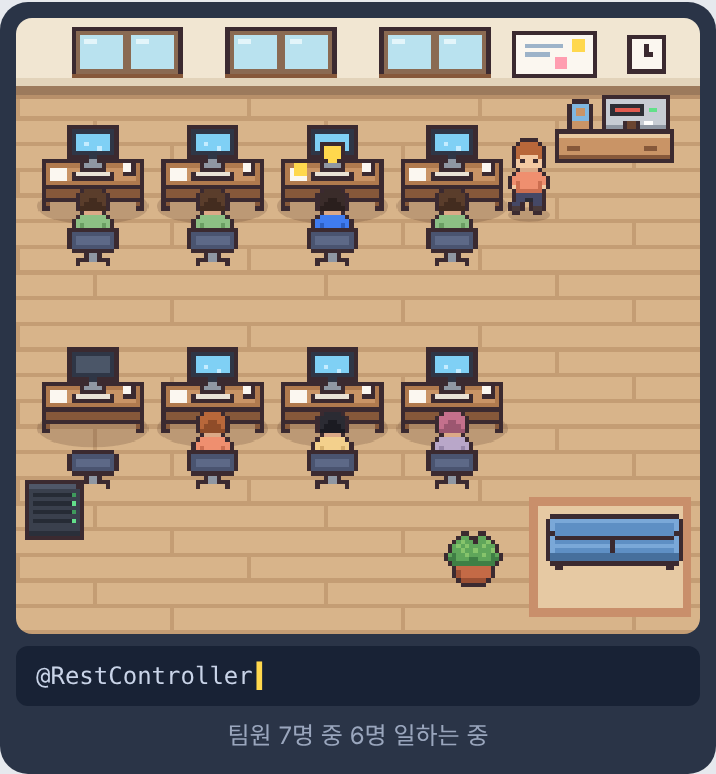
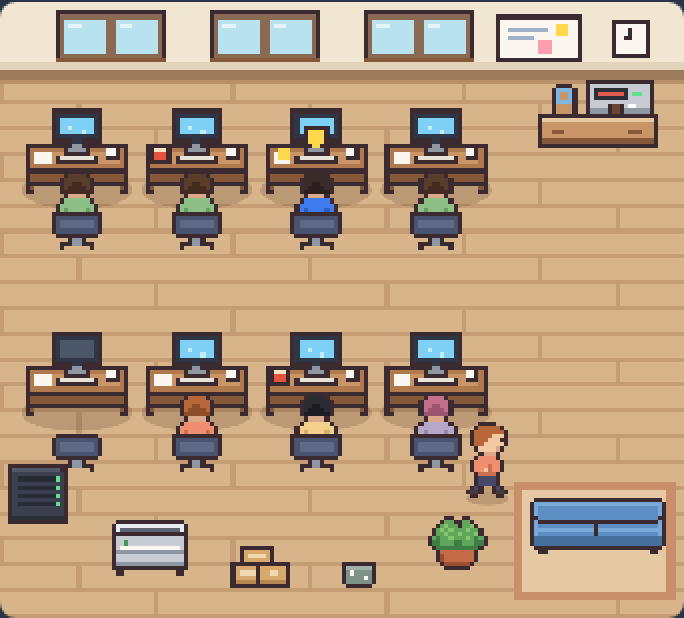
사무실 그림 다듬기: 걷는 방향, 눈 깜빡임, 소품
- 옆으로 걸을 땐 옆모습, 위로 갈 땐 뒷모습 (좌우 반전 포함)
- 서 있는 사람이 가끔 눈을 깜빡임
- 복사기(가끔 불빛), 택배 상자, 휴지통, 책상 위 컵라면과 김

diff --git a/apps/dev-idle/src/office/art.ts b/apps/dev-idle/src/office/art.ts
@@ -157,6 +157,9 @@ export function drawRoom(c: Ctx, night: boolean, alarm: boolean, t: number) {
   blit(c, COUNTER(), 126, 18);
   blit(c, RACK(alarm, Math.floor(t * 4) % 2 === 0), 2, 108);
   blit(c, PLANT(), 100, 120);
+  blit(c, COPIER(Math.floor(t * 2) % 6 === 0), 26, 121);
+  blit(c, BOXES(), 54, 127);
+  blit(c, BIN(), 80, 131);
 
   if (night) {
     c.fillStyle = 'rgba(22, 26, 52, 0.38)';
@@ -273,6 +276,52 @@ const PLANT = () =>
     { o: OUT, L: P.leaf, l: P.leafHi, d: P.leafDark, p: P.pot, P: P.potDark },
   );
 
+const COPIER = (busy: boolean) =>
+  sprite(
+    `copier-${busy}`,
+    [
+      '.oooooooooooooooo.',
+      'oAAAAAAAAAAAAAAAAo',
+      'oAkkkkkkkkkkkkkkAo',
+      'oooooooooooooooooo',
+      'ommmmmmmmmmmmmmmmo',
+      'ommgmmmmmmmmmmmmmo',
+      'omwwwwwwwwwwwwwwmo',
+      'oMMMMMMMMMMMMMMMMo',
+      'ommmmmmmmmmmmmmmmo',
+      'ommmmmmmmmmmmmmmmo',
+      'oMMMMMMMMMMMMMMMMo',
+      'oooooooooooooooooo',
+      '.oo............oo.',
+    ],
+    { o: OUT, A: '#e9ecf1', k: '#5b6475', m: P.metal, M: P.metalDark, g: busy ? P.ledOk : '#3f9a5c', w: P.white },
+  );
+
+const BOXES = () =>
+  sprite(
+    'boxes',
+    [
+      '..oooooooo....',
+      '..obbbbbbo....',
+      '..obttttbo....',
+      '..obbbbbbo....',
+      'oooooooooooooo',
+      'obbbbbobbbbbbo',
+      'obttttobbttbbo',
+      'obbbbbobbbbbbo',
+      'oBBBBBoBBBBBBo',
+      'oooooooooooooo',
+    ],
+    { o: OUT, b: '#d9a86c', B: '#b8864f', t: '#f0d9b0' },
+  );
+
+const BIN = () =>
+  sprite(
+    'bin',
+    ['oooooooo', 'oggggggo', 'oGwGGGGo', 'oGGGGwGo', 'oGGGGGGo', '.oooooo.'],
+    { o: OUT, g: '#9fb0a8', G: '#7f928a', w: P.white },
+  );
+
 /* 책상: 비스듬히 위에서 본 책상과 모니터. (x, y)는 책상 상판 왼쪽 위 */
 const DESK = () =>
   sprite(
@@ -337,7 +386,7 @@ const CHAIR = () =>
     { o: OUT, C: '#4a5470', c: '#5d6987', M: P.metalDark },
   );
 
-export function drawDesk(c: Ctx, x: number, y: number, working: boolean, night: boolean, frame: number, mine = false) {
+export function drawDesk(c: Ctx, x: number, y: number, working: boolean, night: boolean, frame: number, mine = false, ramen = false) {
   shadow(c, x + 12, y + 12, 13);
   blit(c, DESK(), x, y + 1);
   blit(c, MONITOR(working || mine, frame % 2 === 1), x + 6, y - 7);
@@ -348,6 +397,14 @@ export function drawDesk(c: Ctx, x: number, y: number, working: boolean, night: 
   rect(c, x + 19, y + 2, 2, 2, P.white);
   rect(c, x + 2, y + 3, 4, 3, P.white);
   if (mine) rect(c, x + 3, y + 2, 3, 3, P.postit);
+  if (ramen) {
+    // 컵라면과 김
+    rect(c, x + 1, y + 1, 5, 5, OUT);
+    rect(c, x + 2, y + 2, 3, 1, '#f3e3c3');
+    rect(c, x + 2, y + 3, 3, 2, '#e8533f');
+    if (frame % 3 === 0) rect(c, x + 3, y - 2, 1, 2, '#efefef');
+    if (frame % 3 === 1) rect(c, x + 2, y - 3, 1, 2, '#efefef');
+  }
   if (night && (working || mine)) {
     c.fillStyle = 'rgba(127, 208, 245, 0.16)';
     c.fillRect(x + 3, y + 3, 18, 14);
@@ -370,6 +427,7 @@ export interface Look {
 }
 
 export type Pose = 'stand' | 'walk' | 'sit' | 'sleep' | 'drink' | 'cheer';
+export type Dir = 'down' | 'up' | 'side';
 
 const FRONT = [
   '....oooo....',
@@ -391,8 +449,51 @@ const FRONT = [
   '..okko.okko.',
   '...oo...oo..',
 ];
+const SIDE = [
+  '....oooo....',
+  '...ohhhhho..',
+  '..ohhhhhhho.',
+  '..ohhhhssso.',
+  '..ohhhssseo.',
+  '..ohhssssso.',
+  '...ossssSo..',
+  '....oSSSo...',
+  '...otttto...',
+  '..otttttto..',
+  '..otttTtto..',
+  '..ottsTtto..',
+  '...oTTTTo...',
+  '...oppppo...',
+  '...oppppo...',
+  '..opo..opo..',
+  '.okko..okko.',
+  '..oo....oo..',
+];
+const SIDE_STEP = [...SIDE.slice(0, 15), '....oppo....', '....okko....', '.....oo.....'];
+const BACK_WALK = [
+  '............',
+  '....oooo....',
+  '...ohhhho...',
+  '..ohhhhhho..',
+  '..ohhHHhho..',
+  '..ohHHHHho..',
+  '..oHHHHHHo..',
+  '...oSSSSo...',
+  '..otttttto..',
+  '.otttttttto.',
+  '.otTttttTto.',
+  '.osTttttTso.',
+  '..oTTTTTTo..',
+  '..oppppppo..',
+  '..oppPPppo..',
+  '..oppo.oppo.',
+  '..okko.okko.',
+  '...oo...oo..',
+];
+const BACK_STEP = [...BACK_WALK.slice(0, 15), '..oppo.oppo.', '..okko..oo..', '...oo.......'];
 const FRONT_STEP = [...FRONT.slice(0, 15), '..oppo.oppo.', '..okko..oo..', '...oo.......'];
 const FRONT_SLEEPY = FRONT.map((r, i) => (i === 5 ? '..osSssSso..' : r));
+const FRONT_BLINK = FRONT_SLEEPY;
 const CHEER = FRONT.map((r, i) => {
   const arms: Record<number, string> = {
     0: 'o...oooo...o',
@@ -439,7 +540,7 @@ function personPal(look: Look): Pal {
 }
 
 // (x, y)는 발밑 가운데
-export function drawPerson(c: Ctx, x: number, y: number, look: Look, pose: Pose, frame: number, facing: 1 | -1 = 1) {
+export function drawPerson(c: Ctx, x: number, y: number, look: Look, pose: Pose, frame: number, facing: 1 | -1 = 1, dir: Dir = 'down', seed = 0) {
   const pal = personPal(look);
   const id = `${look.hair}${look.shirt}`;
   if (pose === 'sit') {
@@ -464,7 +565,19 @@ export function drawPerson(c: Ctx, x: number, y: number, look: Look, pose: Pose,
     return;
   }
   const stepping = pose === 'walk' && frame % 2 === 1;
-  blit(c, sprite(`f${stepping ? 1 : 0}${id}`, stepping ? FRONT_STEP : FRONT, pal), x - 6, y - 18 - (stepping ? 1 : 0), facing < 0);
+  const lift = stepping ? 1 : 0;
+  if (pose === 'walk' && dir === 'side') {
+    blit(c, sprite(`sd${lift}${id}`, stepping ? SIDE_STEP : SIDE, pal), x - 6, y - 18 - lift, facing < 0);
+    return;
+  }
+  if (pose === 'walk' && dir === 'up') {
+    blit(c, sprite(`bw${lift}${id}`, stepping ? BACK_STEP : BACK_WALK, pal), x - 6, y - 18 - lift);
+    return;
+  }
+  // 앞모습. 가끔 눈을 깜빡인다
+  const blink = (frame + seed) % 14 === 0;
+  const rows = stepping ? FRONT_STEP : blink ? FRONT_BLINK : FRONT;
+  blit(c, sprite(`f${lift}${blink ? 'b' : ''}${id}`, rows, pal), x - 6, y - 18 - lift, facing < 0);
   if (pose === 'drink') {
     const mx = x + 4;
     const my = y - 9;

diff --git a/apps/dev-idle/src/office/OfficeScene.tsx b/apps/dev-idle/src/office/OfficeScene.tsx
@@ -103,7 +103,7 @@ export function OfficeScene({ onWorkingChange }: { onWorkingChange?: (working: n
       DESKS.forEach((d, i) => {
         const occ = occupants.get(i);
         const working = i === myDesk ? meTyping.current > 0 : occ?.activity === 'work';
-        drawDesk(c, d.x, d.y, !!working, night, frame, i === myDesk);
+        drawDesk(c, d.x, d.y, !!working, night, frame, i === myDesk, i === 1 || i === 6);
       });
 
       // 사람과 의자: 아래쪽에 있는 것이 앞에 보이도록 y순으로. 의자 등받이는 앉은 사람 위에 덮는다.
@@ -122,7 +122,7 @@ export function OfficeScene({ onWorkingChange }: { onWorkingChange?: (working: n
           draw: () => {
             const pose: Pose =
               a.activity === 'work' ? 'sit' : a.activity === 'walk' ? 'walk' : a.activity === 'nap' ? 'sleep' : a.activity === 'coffee' ? 'drink' : 'cheer';
-            drawPerson(c, a.pos.x, a.pos.y, LOOKS[a.role] ?? LOOKS.junior, pose, frame, a.facing);
+            drawPerson(c, a.pos.x, a.pos.y, LOOKS[a.role] ?? LOOKS.junior, pose, frame, a.facing, a.dir, a.id.length * 3 + a.seat.x);
           },
         })),
       ];

diff --git a/apps/dev-idle/src/office/sim.ts b/apps/dev-idle/src/office/sim.ts
@@ -17,6 +17,7 @@ export interface Agent {
   path: Point[];
   timer: number; // 현재 활동 남은 시간(초)
   facing: 1 | -1;
+  dir: 'down' | 'up' | 'side'; // 걷는 방향 (그림 선택용)
   spot: { kind: 'coffee' | 'sofa'; i: number } | null; // 잡아 둔 탕비실·소파 자리
 }
 
@@ -77,6 +78,7 @@ export function makeAgent(id: string, role: string, seat: Point, r: () => number
     path: [],
     timer: 8 + r() * 30, // 처음엔 일하는 시간을 흩어 놓는다
     facing: 1,
+    dir: 'down',
     spot: null,
   };
 }
@@ -119,6 +121,7 @@ export function step(agents: Agent[], dt: number, r: () => number) {
         const dy = t.y - a.pos.y;
         const d = Math.hypot(dx, dy);
         if (dx !== 0) a.facing = dx > 0 ? 1 : -1;
+        a.dir = Math.abs(dx) > Math.abs(dy) ? 'side' : dy < 0 ? 'up' : 'down';
         if (d <= budget) {
           a.pos = { ...t };
           a.path.shift();
